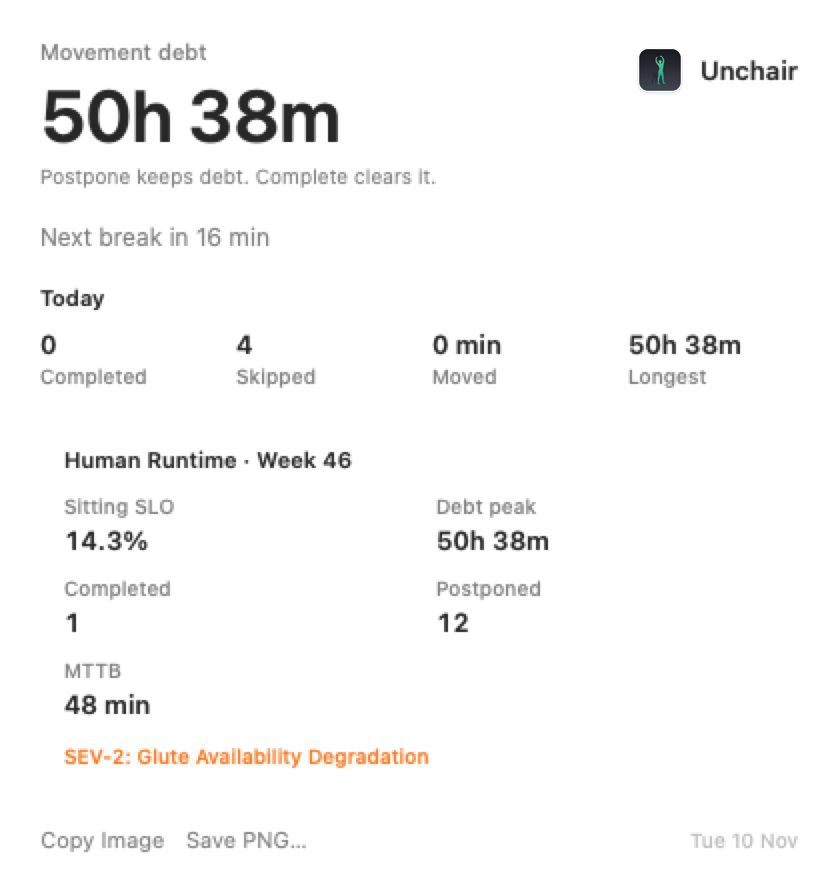
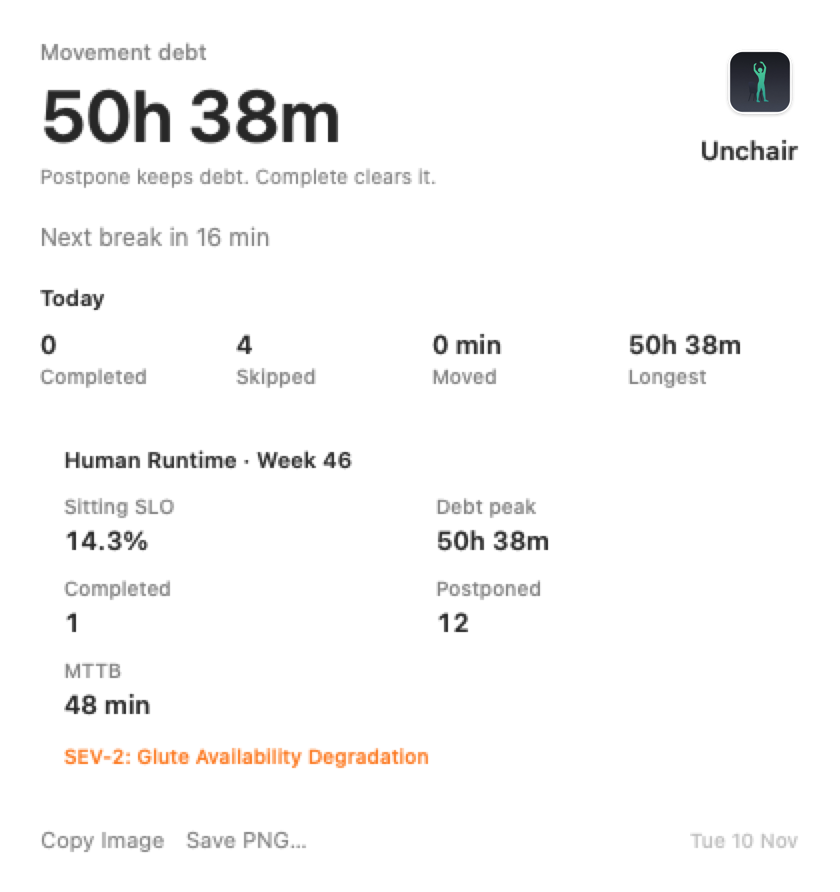
fix(ui): enlarge top-right Unchair mark on Today (#85)
Stack a 40pt icon above the wordmark in the empty hero trailing corner
so branding is obvious without competing with the primary metric.

Changed region(s): [[0.7429, 0.0303, 0.9595, 0.1816]]

diff --git a/Unchair/UI/TodayView.swift b/Unchair/UI/TodayView.swift
@@ -110,10 +110,13 @@ struct TodayDashboardLayout: View {
             .accessibilityLabel(model.heroAccessibilityLabel)
             .accessibilityAddTraits(.isHeader)
 
-            UnchairBrandMark(
-                iconSide: 28,
-                titleFont: .body.weight(.semibold)
-            )
+            VStack(alignment: .trailing, spacing: 6) {
+                UnchairAppIcon(side: 40)
+                Text("Unchair")
+                    .font(.headline.weight(.semibold))
+            }
+            .accessibilityElement(children: .ignore)
+            .accessibilityLabel("Unchair")
             .padding(.top, 2)
         }
     }
